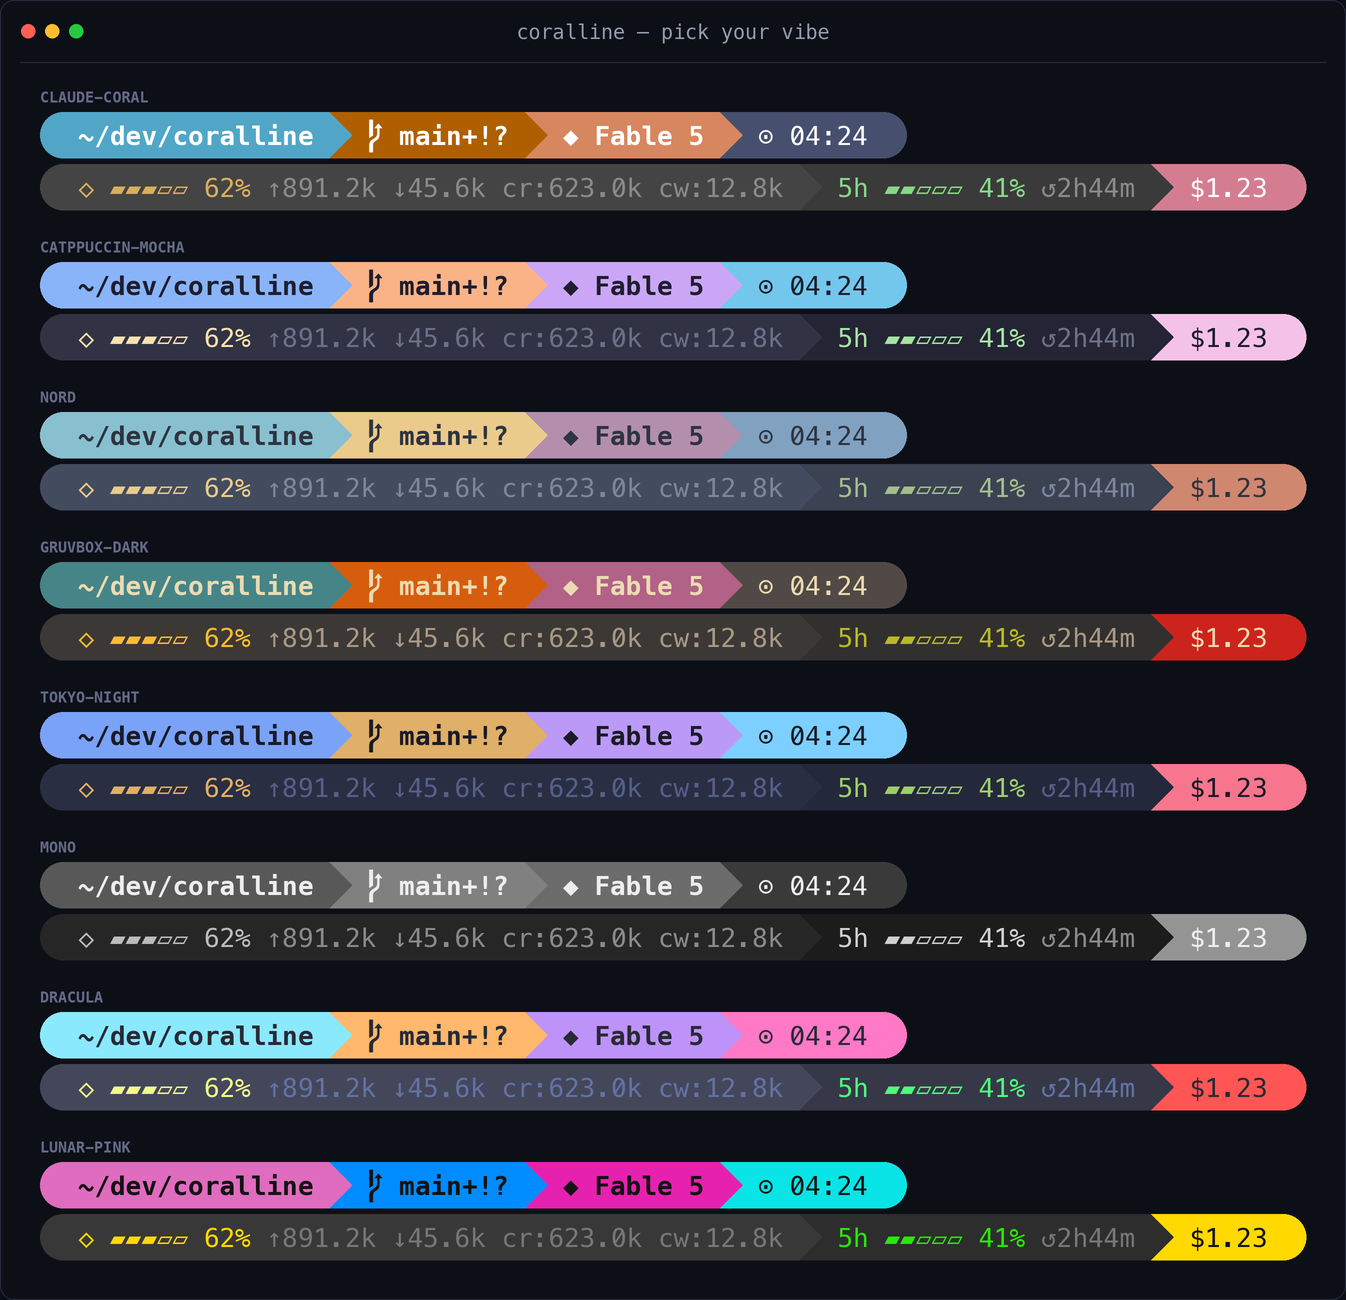
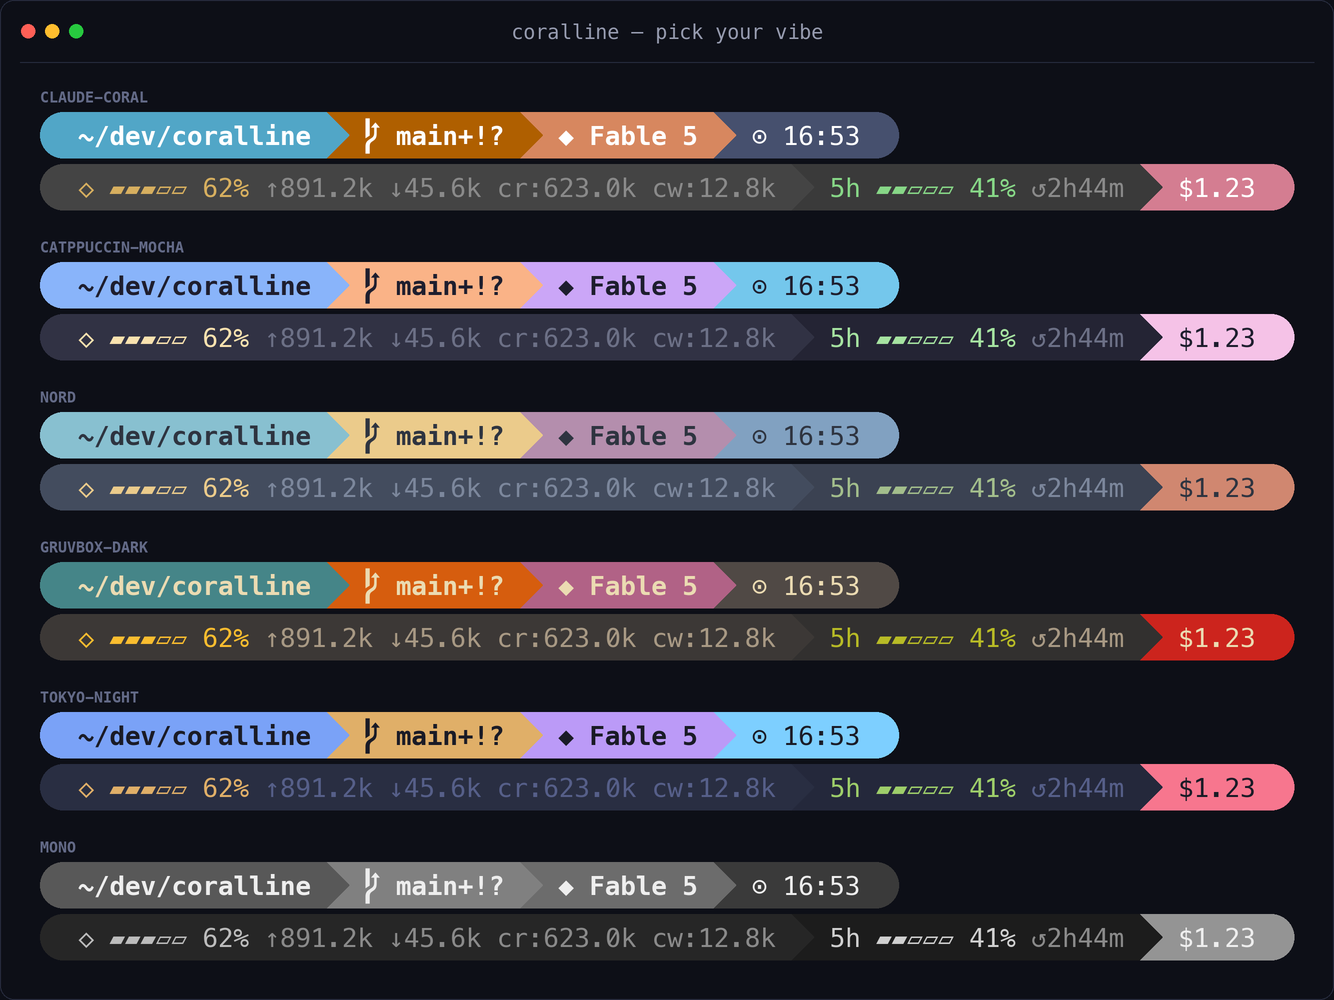
docs: keep hero curated to the original six themes
hero.png is a sampler, not a full catalog — adding a theme regenerated it and
made the banner grow (and churned a binary on every theme PR). Freeze it:

- add HERO_THEMES (the original six) and point hero_blocks() at it, so re-running
  the renderer no longer bloats the banner
- restore hero.png to the six-theme version (drops the lunar-pink row from #12;
  its gallery preview stays)
- document the theme-contribution flow in both READMEs: gallery only, leave hero

diff --git a/tools/render-screenshots.py b/tools/render-screenshots.py
@@ -34,6 +34,11 @@ THEMES = ["claude-coral", "catppuccin-mocha", "nord",
           "gruvbox-dark", "tokyo-night", "mono", "dracula",
           "lunar-pink"]
 
+# hero.png is a curated sampler frozen to the original six themes; new themes go
+# in the per-theme gallery (theme-<name>.png) only, so the banner doesn't grow.
+HERO_THEMES = ["claude-coral", "catppuccin-mocha", "nord",
+               "gruvbox-dark", "tokyo-night", "mono"]
+
 # ── Geometry (S = supersampling factor, downscaled at save time) ─────────────
 S = 2
 FS = 26 * S
@@ -288,7 +293,7 @@ def theme_blocks(theme):
 def hero_blocks():
     return [(theme, run_bar(theme, "dir git model clock", MID)
                     + run_bar(theme, "ctx limit5h cost", MID))
-            for theme in THEMES]
+            for theme in HERO_THEMES]
 
 def lean_blocks():
     lean = 'VL_STYLE="lean"\n'

diff --git a/README.md b/README.md
@@ -167,9 +167,11 @@ Prefer Powerlevel10k's *lean* look — no backgrounds, just colored text? Set
 A theme is just a `.conf` file assigning `VL_BG_*` / `VL_FG_*` — copy one, change the colors,
 and source yours from `coralline.conf` instead. PRs with new themes are welcome.
 
-> **Tip:** the preview images are generated from the real script by
-> [`tools/render-screenshots.py`](./tools/render-screenshots.py) — after adding a theme, add it
-> to the `THEMES` list there and re-run it to get a matching preview.
+> **Adding a theme?** Copy an existing `.conf`, set every `VL_BG_*` / `VL_FG_*`
+> (including `VL_BG_EFFORT`), add its name to the `THEMES` list in
+> [`tools/render-screenshots.py`](./tools/render-screenshots.py), re-run it to generate
+> `assets/theme-<name>.png`, and add a row to the table above. Please **don't regenerate
+> `hero.png`** — it's a fixed sampler of the original six themes, not a full catalog.
 
 ## Acknowledgements
 

diff --git a/README.zh-TW.md b/README.zh-TW.md
@@ -163,9 +163,10 @@ narrow window:  ~/dev/app  ⎇ main  ◆ Fable 5
 主題就只是一個指定 `VL_BG_*` / `VL_FG_*` 的 `.conf` 檔——複製一份、改顏色、
 在 `coralline.conf` 裡改 source 你的版本即可。歡迎發 PR 貢獻新主題。
 
-> **提示：** 預覽圖是由 [`tools/render-screenshots.py`](./tools/render-screenshots.py)
-> 直接執行真實腳本產生的——新增主題後把名稱加進該檔的 `THEMES` 清單再跑一次，
-> 就會得到一張風格一致的預覽圖。
+> **要貢獻新主題？** 複製一份現有 `.conf`，設好所有 `VL_BG_*` / `VL_FG_*`（含
+> `VL_BG_EFFORT`），把名稱加進 [`tools/render-screenshots.py`](./tools/render-screenshots.py)
+> 的 `THEMES` 清單，重跑產生 `assets/theme-<名稱>.png`，再到上方表格加一列。請**不要重產
+> `hero.png`** —— 它是固定展示最初六個主題的招牌圖、不是完整目錄。
 
 ## 致敬與致謝
 